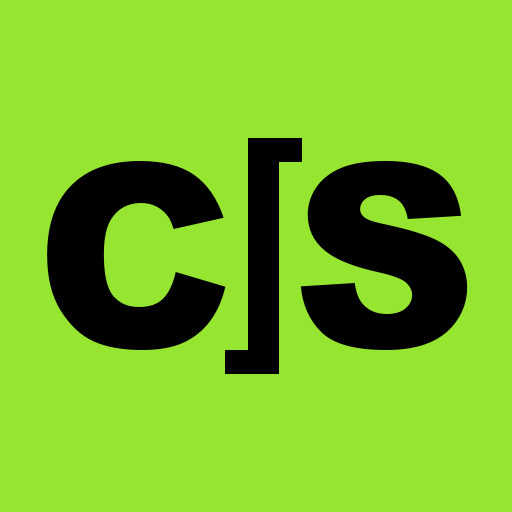
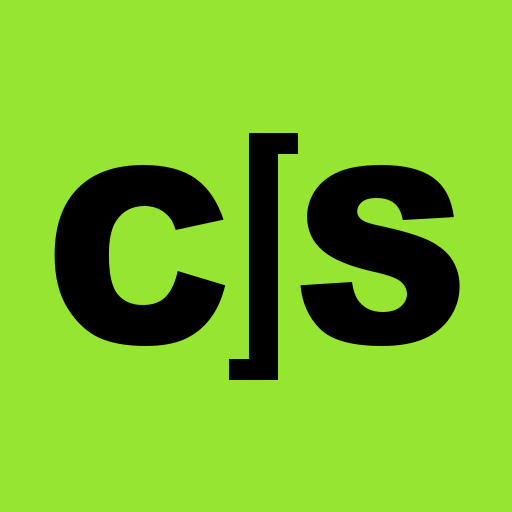
fix: icono PWA verde opaco que no depende del modo oscuro
Elimina transparencia en esquinas y fuerza theme_color verde para splash e icono.

diff --git a/index.html b/index.html
@@ -3,14 +3,13 @@
   <head>
     <meta charset="UTF-8" />
     <meta name="viewport" content="width=device-width, initial-scale=1.0, viewport-fit=cover, maximum-scale=1" />
-    <meta name="theme-color" content="#96e631" media="(prefers-color-scheme: light)" />
-    <meta name="theme-color" content="#000000" media="(prefers-color-scheme: dark)" />
+    <meta name="theme-color" content="#96e631" />
     <meta name="mobile-web-app-capable" content="yes" />
     <meta name="apple-mobile-web-app-capable" content="yes" />
-    <meta name="apple-mobile-web-app-status-bar-style" content="black-translucent" />
+    <meta name="apple-mobile-web-app-status-bar-style" content="default" />
     <meta name="apple-mobile-web-app-title" content="Evidencias" />
-    <link rel="apple-touch-icon" href="/apple-touch-icon.png" />
-    <link rel="icon" type="image/png" sizes="192x192" href="/pwa-192.png" />
+    <link rel="apple-touch-icon" href="/apple-touch-icon.png?v=3" />
+    <link rel="icon" type="image/png" sizes="192x192" href="/pwa-192.png?v=3" />
     <title>CTW Evidencias</title>
     <meta name="description" content="Captura y entrega de evidencias de sponsors — Colombia Tech Week" />
     <meta name="author" content="Colombia Tech Week" />

diff --git a/vite.config.ts b/vite.config.ts
@@ -52,6 +52,10 @@ export default defineConfig(({ mode }) => ({
       includeAssets: [
         "favicon.ico",
         "apple-touch-icon.png",
+        "pwa-192.png",
+        "pwa-512.png",
+        "pwa-192-maskable.png",
+        "pwa-512-maskable.png",
         "isotipo_negro.png",
         "isotipo_blanco.png",
         "robots.txt",
@@ -71,17 +75,25 @@ export default defineConfig(({ mode }) => ({
         categories: ["business", "productivity"],
         icons: [
           {
-            src: "/pwa-192.png",
+            src: "/pwa-192.png?v=3",
             sizes: "192x192",
             type: "image/png",
+            purpose: "any",
           },
           {
-            src: "/pwa-512.png",
+            src: "/pwa-512.png?v=3",
             sizes: "512x512",
             type: "image/png",
+            purpose: "any",
           },
           {
-            src: "/pwa-512.png",
+            src: "/pwa-192-maskable.png?v=3",
+            sizes: "192x192",
+            type: "image/png",
+            purpose: "maskable",
+          },
+          {
+            src: "/pwa-512-maskable.png?v=3",
             sizes: "512x512",
             type: "image/png",
             purpose: "maskable",
